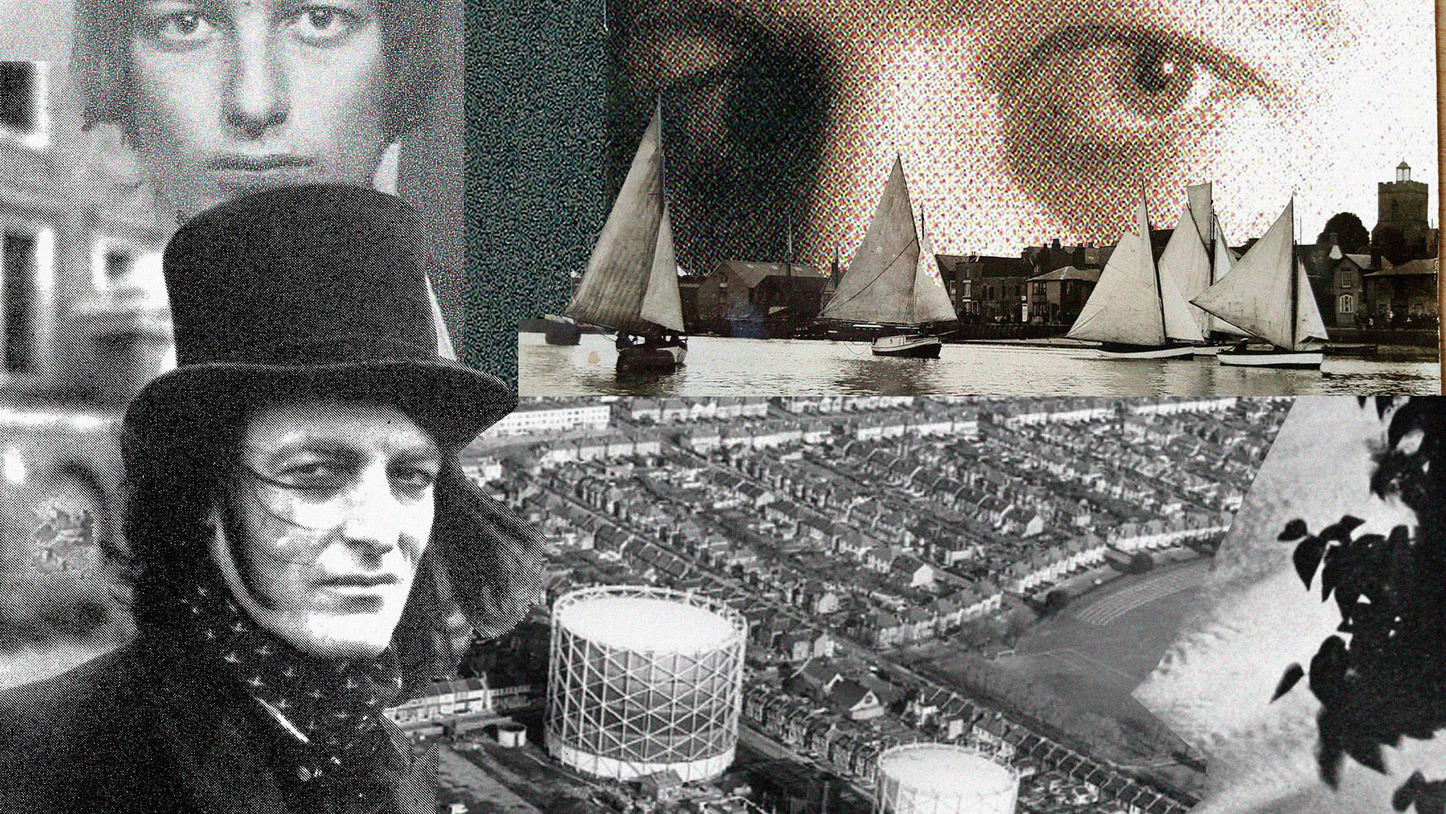
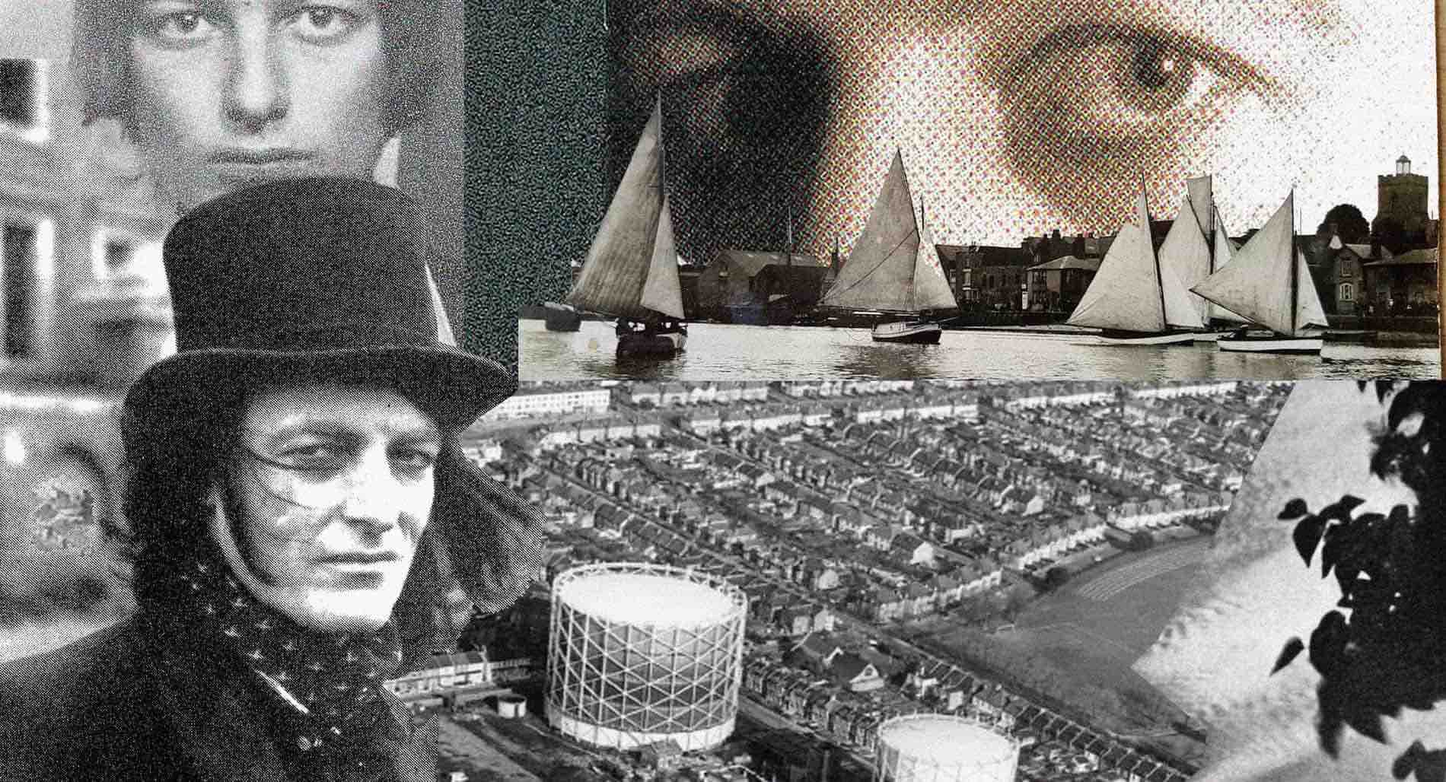
optimied image size. and fixed some questions

diff --git a/public/martin_newell/last_of_the_radical_long_hairs.md b/public/martin_newell/last_of_the_radical_long_hairs.md
@@ -28,6 +28,10 @@ Maybe I was mad? I thought there was this otherness.
 **Did that change at any point?**
 Yeah. I fastened on to the one thing I thought I could do, which was to be some kind of a pop star. Once that idea took root in me it was pretty hard to shift. I saw A Hard Day’s Night by The Beatles, and I thought that’s what being a pop star would be like. I was 10 or 11 years old when I saw that. So that’s what I had to go and do, I had to be in a pop group, that was the kind of life I had to lead. It wasn’t anything to do with money; it had to do with music and lots of fun, and moving really fast the whole time. Getting in and out of trains and studios and it all just looked like tremendous fun. I realize when I read the stories about that period in [the Beatles] lifetimes, of course it wasn’t tremendous fun, it was actually probably really confusing, but bits of it must have been good.
 
+<figure>
+![cover](inline-01.jpg)
+</figure>
+
 **When did you pick up your first instrument?**
 I played a guitar when I was 12, in Christmas 1965. That’s when the world started changing for me.
 
@@ -40,8 +44,8 @@ Quite a lot. I come from a 2nd generation of baby boomers. When you have a war, 
 Your way of fighting was to become a pop star.
 
 There’s this expression, fighting for peace is like fucking for virginity. Peace after the war didn't turn out exactly the way people expected.
-How did your parents react to all of these things?
 
+**How did your parents react to all of these things?**
 My mum was more proud of me and interested in what I was doing, because she came from a musical family. What I was trying to do was a bit in advance of what she knew; she couldn’t have helped me. The classic thing was, my dad would be very bad-tempered. He would finish training soldiers and come back from the job he hated, pour himself a big whiskey, romp around the place, and say, "Stop playing that bloody banjo." And my mom would say, “He’s composing.” And I’d hear him shout, "I don’t care if he’s bloody decomposing, he needs to stop playing that banjo." That was a grim joke but he didn’t think it was going anywhere.
 
 **Did he try to dissuade you from playing music for a living?**
@@ -52,6 +56,10 @@ He didn’t see me do a gig until two years before he died. And he said to my Mu
 
 **What happened when you started to rebel more, with the long hair and music?**
 When I did start getting things the way I wanted, my dad stopped my allowance, which wasn’t very much anyway. I went and got a paper route, and then I started stealing film posters off train station walls. I got Clint Eastwood posters and Bridget Bardot posters that would fetch three shillings in school, so I found a technique of quickly peeling the edges off and, just when the train comes, peeling the whole thing off the wall and getting into the train when it started moving. I’d take them into school the next day to sell. I forged the headmaster’s signature on dinner tickets as well. This is grand larceny we’re talking about here.
+
+<figure>
+![cover](inline-02.jpg)
+</figure>
 
 **What were you listening to besides pop?**
 I did listen to a bit of Bach, I seem to like baroque music, there was a thread of that. I’ll tell you what else I listened to, my mum was a bit of a singer herself, and she liked lots of Hollywood musicals and West-End musicals, and Broadway musicals and we had quite a few of those around. We had things like My Fair Lady and Sound of Music. A big one I liked was Carousel. My parents were fond of musical comedy as well, so I wasn’t just fed a diet of pop music. We didn’t have much classical music around, they weren’t classical music type of people.
@@ -67,7 +75,8 @@ Pop has a bit of fun in it, a lightness of touch, and it isn’t afraid to make 
 **So in your experience pop was therapeutic?**
 I liked a lot of American bubblegum in 1968; “Gimme Gimme Good Loving,” “Yummy Yummy Yummy I got Love in my Tummy,” I thought they were big, I thought they were clever. There was other stuff that I thought was just a bit silly, I did also listen to Spirit, which I liked...I mean the thing about the Yanks, I mean you cherished Americans, cousins of ours, is that you make bloody good pop music. You do pop, you do it better than us. I mean, it sounds sophisticated. I mean, Bacharach, for instance. Or The Carpenters—we didn’t have anything like that.
 
-I read a lot of things saying you didn’t become quite the pop star you imagined yourself to be. Can you talk a bit about that?I certainly didn't and it probably saved my life. When I was a kid I thought I’d turn out to be a poet or a writer. When you’re a teenager you get very blinkered, you think, “I'm gonna be a pop star, I’m gonna be a pop star” and you repeat this mantra to yourself and you don't know how you're gonna do it, and then you're in your mid 20s and you think “Am I?” I think it would have been a very bad thing if I got the sort of fame I thought I wanted.
+**I read a lot of things saying you didn’t become quite the pop star you imagined yourself to be. Can you talk a bit about that?**
+I certainly didn't and it probably saved my life. When I was a kid I thought I’d turn out to be a poet or a writer. When you’re a teenager you get very blinkered, you think, “I'm gonna be a pop star, I’m gonna be a pop star” and you repeat this mantra to yourself and you don't know how you're gonna do it, and then you're in your mid 20s and you think “Am I?” I think it would have been a very bad thing if I got the sort of fame I thought I wanted.
 
 **Why?**
 It would have destroyed me or just debase what talent I had. I'm still going now, I still like what I do. I know people more famous than me and they're kinda burned out. They got very jaundiced against the business, jaundiced against their own creativity. I still wake up in the morning with “Wow, it’s late, let's make a track,” and I think I’m very lucky to always be able to do that. I mean it’s Wednesday, I have two more days to work on the album. No one can stop me, I don’t have to go to work, I have enough money coming in.

diff --git a/public/mark_gardner/growing_into_fame.md b/public/mark_gardner/growing_into_fame.md
@@ -1,5 +1,5 @@
 
-<figure class="headline">
+<figure>
 ![cover](cover.jpg)
 </figure>
 
